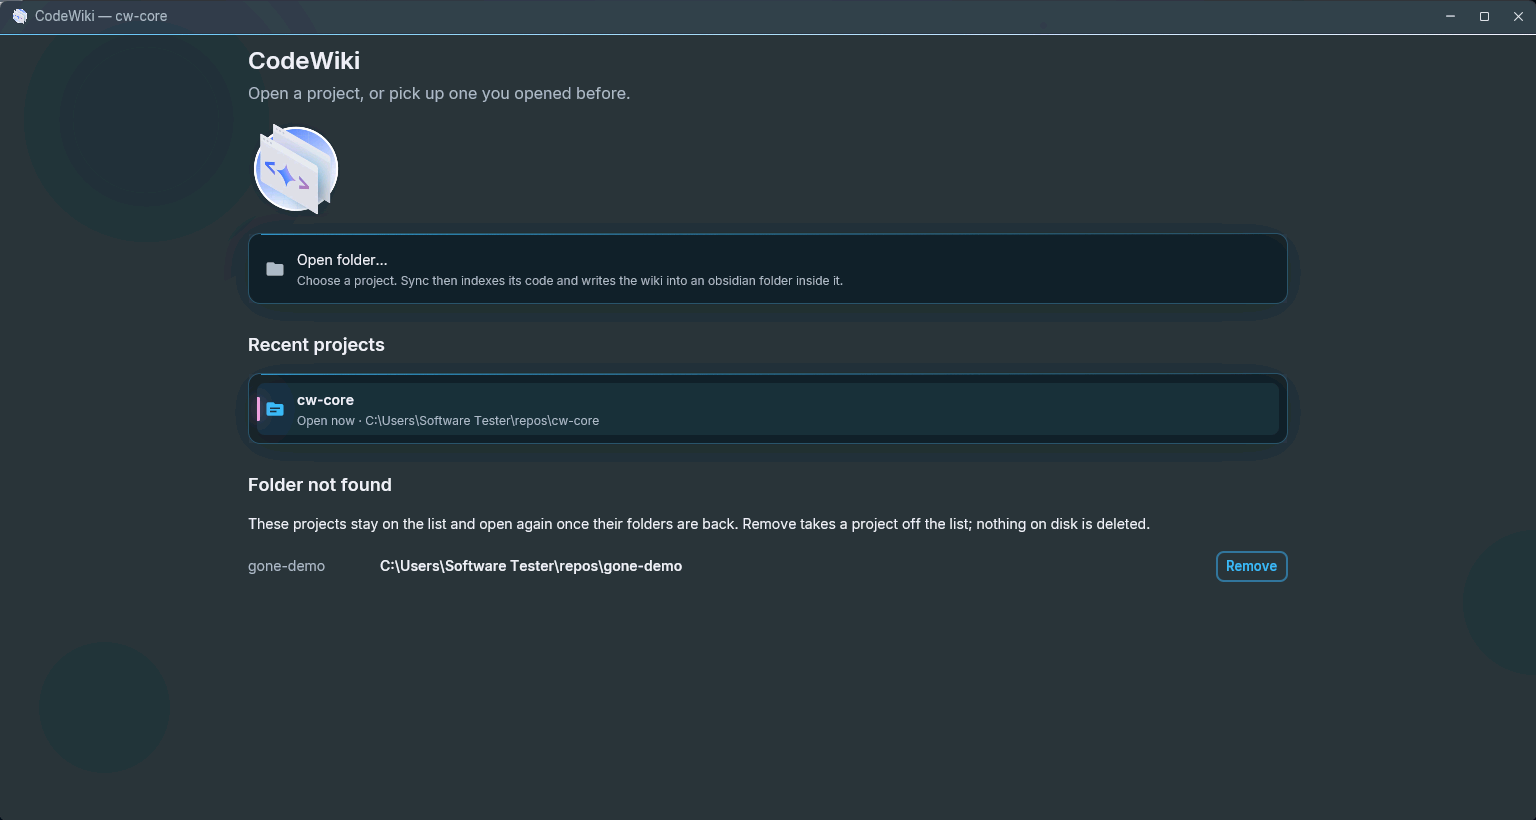
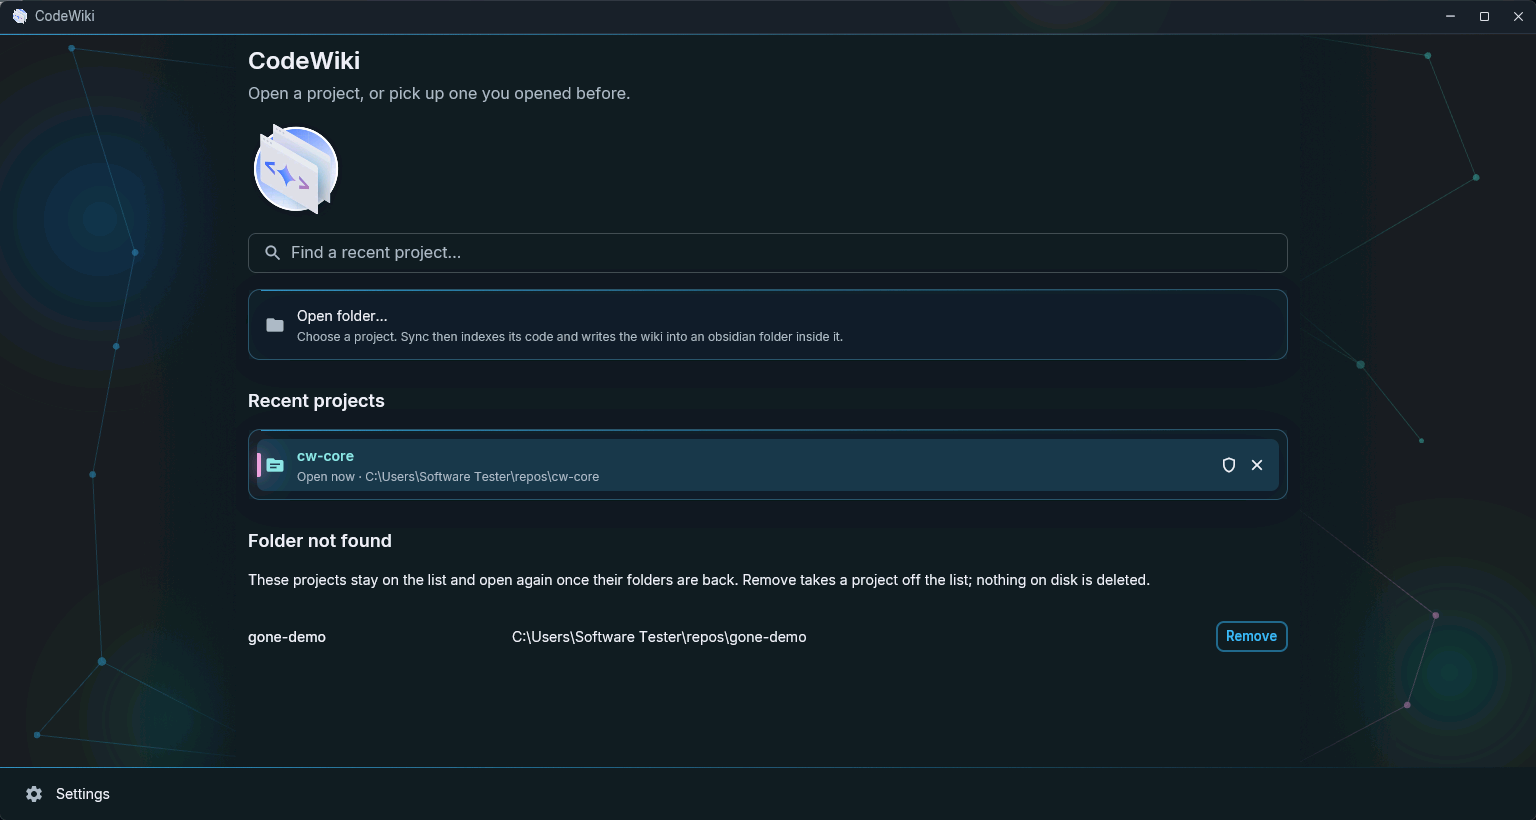
docs: record the published 0.7.0 and bring the guide up to date
ROADMAP: the check against the published package (checksum, self-update from 0.6.1) and the Action's test. Guide: Home's rows end with a shield and Remove from list, with new pictures from the guest run; the GitHub Action page says what a wiki explained with 0.6.1 or older needs.

diff --git a/docs/guide/the-app/home.md b/docs/guide/the-app/home.md
@@ -9,7 +9,7 @@ icon: house
 
 CodeWiki starts on Home. It fills the window: the sidebar, the toolbar and the tabs appear once you open a project's page.
 
-![Home with a few letters typed into the search field, and two projects below: one open now, one with a worktree and kept from agents](../.gitbook/assets/home-0.6.png)
+![Home with a few letters typed into the search field, and two projects below: one open now, one with a worktree and kept from agents. Each row ends with a shield and a close button](../.gitbook/assets/home-0.7.png)
 
 ## Open a project
 
@@ -38,16 +38,21 @@ The toolbar has a shortcut too: the **Open recent** button, after **Back**, list
 
 A project's row starts with marks, then the folder.
 
-| Mark                                      | Meaning                                                                                              |
-| ----------------------------------------- | ---------------------------------------------------------------------------------------------------- |
-| **Open now**                              | This is the project that is open.                                                                    |
-| **1 worktree**, **\<n> worktrees**        | The repository has linked git worktrees. They have no row of their own. See below.                   |
-| **Worktree of \<name>**                   | The open folder is a linked git worktree of that project.                                            |
-| **Kept from agents**                      | Coding agents get no CodeWiki tools in this folder. The button at the right reads **Let agents in**. |
-| **Kept from agents by \<folder>**         | A folder above it is kept from agents. The button reads **Settings…**.                               |
-| **Kept from agents (contains \<folder>)** | A folder inside it is kept from agents. The button reads **Settings…**.                              |
+| Mark                                      | Meaning                                                                                            |
+| ----------------------------------------- | -------------------------------------------------------------------------------------------------- |
+| **Open now**                              | This is the project that is open.                                                                  |
+| **1 worktree**, **\<n> worktrees**        | The repository has linked git worktrees. They have no row of their own. See below.                 |
+| **Worktree of \<name>**                   | The open folder is a linked git worktree of that project.                                          |
+| **Kept from agents**                      | Coding agents get no CodeWiki tools in this folder. The shield at the end of the row is filled.    |
+| **Kept from agents by \<folder>**         | A folder above it is kept from agents. The shield is filled, and a click on it opens Settings.     |
+| **Kept from agents (contains \<folder>)** | A folder inside it is kept from agents. The shield is outlined, and a click on it opens Settings. |
 
-The button **Keep agents out** appears on a project that is not kept. See [Folders kept from coding agents](../agents/keep-agents-out.md).
+## The buttons at the end of a row
+
+Each row ends with two round buttons. Rest the pointer on one to read what it does.
+
+* The **shield** keeps coding agents out of the project, or lets them in again. It is outlined while agents may use the project, and its tooltip reads **Keep agents out**. It is filled while the project is kept from them, and reads **Let agents in**. Where a folder above or inside the project decides, a click opens Settings → Repositories. See [Folders kept from coding agents](../agents/keep-agents-out.md).
+* The **×** is **Remove from list**. It takes the project off Home and nothing else: the folder, its wiki and its index stay, and opening the folder again brings the project back as it was. Removing the project that is open closes it. If a note has unsaved edits, save or discard them first.
 
 ### Git worktrees
 
@@ -61,7 +66,7 @@ A project whose folder was moved, renamed or deleted, or whose drive is not conn
 
 ![A project whose folder is not found](../.gitbook/assets/home-folder-not-found.png)
 
-CodeWiki does not forget such a project by itself. It opens again as soon as its folder is back in place. **Remove** takes it off the list; nothing on disk is deleted, and opening the folder again later adds it back.
+CodeWiki does not forget a project by itself. A project whose folder is not found opens again as soon as the folder is back in place. **Remove** takes it off the list; nothing on disk is deleted, and opening the folder again later adds it back.
 
 ## When an update waits
 

diff --git a/ROADMAP.md b/ROADMAP.md
@@ -124,9 +124,11 @@ Status as of 2026-11-28. "Verified" means covered by automated tests or by a liv
 
   The five real embedding servers did not run: the embedder's code did not change (the owner's rule of 2026-11-27). The full pass took 45.6 minutes, 1.3 of them setup before the recording; the second 12.1.
 
+  The release was published on 2026-11-28 with the zip, the setup program and a `.sha256` for each, and the Docker image. Checked against it in the guest (`-ReleaseTag v0.7.0 -RealRelease -Only R1,U2`): the zip downloaded in the guest has the checksum its `.sha256` names, and an installed 0.6.1 updated itself to 0.7.0 from GitHub, with the Apps entry's version moved; its pictures show the old row button before the update and the two icons after it. `action-test.yml`, started by hand after the release, passed on `ubuntu-latest`, `ubuntu-22.04` and `windows-latest` with 0.7.0.
+
   Not verified: error reports (the local package carries no DSN); the Codex plugin in a live Codex session (as before); a wiki explained with 0.6.1 on one machine and synced with 0.7.0 on another in the guest (a unit test covers the renewal of raw-byte hashes, and this repository's own wiki, synced in a clone with LF line endings, changes nothing but `last_indexed_commit`).
 
-  Report on the development machine: `report/vm-test-2026-11-28-0.7.0`, with its `-nogpu` folder, the two proof runs `report/vm-proof-2026-11-28-0.7.0` and `-b`, and the stopped attempt `-stopped` |
+  Report on the development machine: `report/vm-test-2026-11-28-0.7.0`, with its `-nogpu` and `-published` folders, the two proof runs `report/vm-proof-2026-11-28-0.7.0` and `-b`, and the stopped attempt `-stopped` |
 | M11 Release run of 0.6.0 | Verified in a clean VM, tagged | Run on 2026-11-28 in the Tiny 11 guest (3072 MB, `-Hardened`, package built from `b2300b0`) in two passes, setup program and update from 0.5.0 included:
   - the full pass on checkpoint "Clean GPU" (`-Hardened -ExceptCodeWiki -Plugin`): 129 cases, 107 pass, 21 note, 1 fail. All 21 notes were read off their screenshots: 16 show what is expected and 5 are records. The fail was HS1, a new case whose own check compared whole screenshots and was tipped by the drifting background; its screenshots show the app right. The check was corrected (`dcc55e0`) and HS1 passed on a rerun;
   - the subset of the cases that draw or move on checkpoint "Clean", without a graphics card (`-NoGpuSubset`): 35 cases, 24 pass, 10 note, 1 fail. The fail was S1: Defender's definitions update ended "completed with errors" in the guest. It passed on a rerun 16 minutes later.

diff --git a/docs/guide/agents/keep-agents-out.md b/docs/guide/agents/keep-agents-out.md
@@ -23,9 +23,9 @@ The list is the file `agents-off.json` in the data folder (`%LOCALAPPDATA%\CodeW
 {% tab title="In the app" %}
 Settings → Repositories → **Kept from coding agents** adds and removes folders. **Add folder…** picks one. **Remove** takes one off.
 
-On [Home](../the-app/home.md), a project's row has **Keep agents out** and **Let agents in**. The command palette has **Keep agents out of this project** and **Let agents into this project**.
+On [Home](../the-app/home.md), a project's row ends with a shield. It is outlined while agents may use the project, and a click keeps them out (**Keep agents out**). It is filled while the project is kept from them, and a click lets them in again (**Let agents in**). The command palette has **Keep agents out of this project** and **Let agents into this project**.
 
-A project kept by a folder above it says so (**Kept from agents by \<folder>**), and so does a project that holds a kept folder (**Kept from agents (contains \<folder>)**). Such a row has a **Settings…** button in place of a **Keep agents out** button. A project that is on the list itself while a folder above it is listed too shows the folder above, since removing its own entry would not let agents in.
+A project kept by a folder above it says so (**Kept from agents by \<folder>**), and so does a project that holds a kept folder (**Kept from agents (contains \<folder>)**). On such a row a click on the shield opens Settings, where the folder that decides is listed. A project that is on the list itself while a folder above it is listed too shows the folder above, since removing its own entry would not let agents in.
 {% endtab %}
 
 {% tab title="On the command line" %}

diff --git a/docs/guide/reference/github-action.md b/docs/guide/reference/github-action.md
@@ -86,4 +86,4 @@ Three things can make it fail when you did sync:
 
 * **A file written into the checkout.** CodeWiki counts every file it finds in the repository's folder. A step that writes a file there before the action, such as a report, makes the wiki look out of date. Write such files elsewhere, or name them in `.codewikiignore`.
 * **A bot that cannot sync.** A pull request from a bot such as Dependabot changes code and cannot run the sync. Leave the step out for it with an `if:`, and sync when you merge.
-* **An older CodeWiki.** Up to version 0.6.0 a file saved with Windows line endings on one machine and Unix ones on another counted as changed. From 0.6.1 line endings make no difference. Sync the wiki once with 0.6.1 or newer.
+* **An older CodeWiki.** Up to version 0.6.0 a file saved with Windows line endings on one machine and Unix ones on another counted as changed. From 0.6.1 line endings make no difference. Sync the wiki once with 0.6.1 or newer. If a coding agent explained notes with 0.6.1 or older, sync once with 0.7.0 or newer on the machine where they were explained, and commit: that sync renews what those notes recorded about their files.

diff --git a/docs/guide/getting-started/your-first-wiki.md b/docs/guide/getting-started/your-first-wiki.md
@@ -15,7 +15,7 @@ You need CodeWiki [installed](install.md) and a folder with source code. The fol
 
 Start CodeWiki. On Home, press **Open folder…** and choose the project's folder.
 
-![Home, with Open folder and the recent projects](../.gitbook/assets/home-0.6.png)
+![Home, with Open folder and the recent projects](../.gitbook/assets/home-0.7.png)
 {% endstep %}
 
 {% step %}
